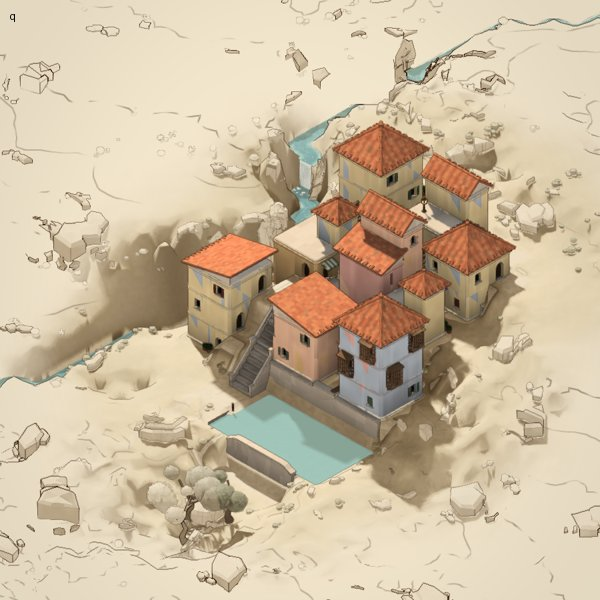
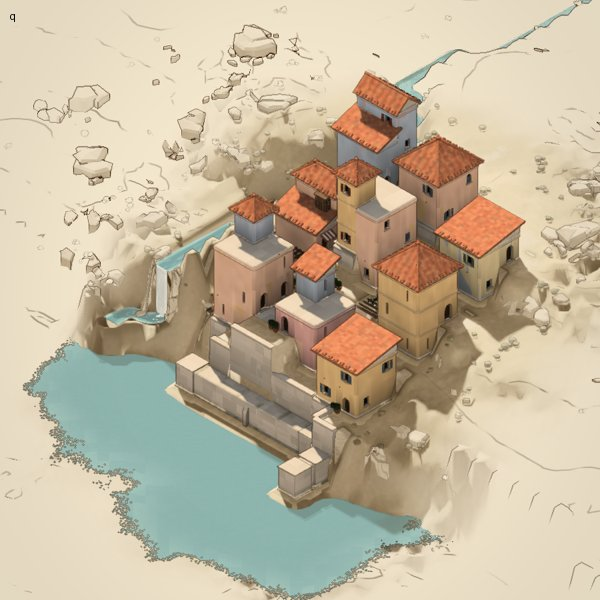
lab: labyrinth, a coast
A land seed below nought is a coast: the sea across the front at level
nought (a seabed under water, the shore where the hill goes under), a cliff
out of it, shelves behind, the stream falling into the sea. Stone built in
the sea stands on its own ground; the sea breaks up into the page where the
drawing's reach runs out. Story 22 moves onto one: a village up the
shelves with a mole along the cliff's foot.

Claude-Session: https://claude.ai/code/session_01D2Nx3PayKJtFYoab5A57H3

diff --git a/cells/lab/client/labyrinth/land.ts b/cells/lab/client/labyrinth/land.ts
@@ -4,6 +4,11 @@
  * shelves; a ravine runs down it with a stream in its bed; a rocky outcrop stands in the way of the obvious line; and
  * there's a shelf flat enough for a court.
  *
+ * A **coast** (a land seed below nought: the coast made from the seed's size) is the same land met by the sea: across
+ * its front, the sea at level nought (a seabed under water, its shore where the hill goes under), and out of it a cliff,
+ * two levels at once, then the shelves rising on to the back; the court's shelf and the outcrop kept up off the water,
+ * the stream falling out of its ravine into the sea.
+ *
  * It's held two ways that never disagree:
  * - **by column** (`g`): the level the ground is at in each cell. What's built is in whole levels, so this is what
  *   stands, walks and is struck: earth fills each column below it (`World.earth`), and its top is a floor;
@@ -35,6 +40,8 @@ export interface Land {
   rock: [number, number];
   /** the shelf kept flat for a court (its middle) */
   shelf: [number, number];
+  /** a coast's sea: its cells (`j * 1000 + i`), level nought, under water; empty inland */
+  sea: Set<number>;
 }
 
 const DW = DOMAIN.i1 - DOMAIN.i0 + 1;
@@ -51,7 +58,8 @@ export function noise2(seed: number, x: number, y: number): number {
 }
 
 /** a landscape for a seed */
-export function makeLand(seed: number, bay = 1): Land {
+export function makeLand(landSeed: number, bay = 1): Land {
+  const coast = landSeed < 0, seed = Math.abs(landSeed);
   const R = (n: number) => hash(seed, n) / 4294967296, L = landBox(bay), W = L.i1 - L.i0 + 1, H = L.j1 - L.j0 + 1;
   /** a square's place in the first square's columns */
   const at = (i: number, j: number) => (j - L.j0) * W + (i - L.i0);
@@ -70,12 +78,18 @@ export function makeLand(seed: number, bay = 1): Land {
   // (the ravine's line down the rise: wandering a little either side of a line a third or two thirds across)
   const side = R(2) < 0.5 ? 0.36 : 0.64, phase = R(3) * 6.28, ravine = (v: number) => side + 0.09 * Math.sin(v * 5.2 + phase) + 0.05 * Math.sin(v * 11 + phase * 2);
   // (the outcrop: on the far side of the ravine from the court's shelf, partway up)
-  const rockU = side < 0.5 ? 0.66 + 0.12 * R(4) : 0.34 - 0.12 * R(4), rockV = 0.4 + 0.25 * R(5);
-  const shelfU = side < 0.5 ? 0.14 + 0.06 * R(6) : 0.86 - 0.06 * R(6), shelfV = 0.32 + 0.3 * R(7);
+  const rockU = side < 0.5 ? 0.66 + 0.12 * R(4) : 0.34 - 0.12 * R(4), rockV = coast ? 0.55 + 0.2 * R(5) : 0.4 + 0.25 * R(5);
+  const shelfU = side < 0.5 ? 0.14 + 0.06 * R(6) : 0.86 - 0.06 * R(6), shelfV = coast ? 0.55 + 0.2 * R(7) : 0.32 + 0.3 * R(7);
+  // (a coast's shore: across the front a little under a third of the way back, wandering, drawn in a bay toward the
+  // middle, where a harbour would be)
+  const sPhase = R(8) * 6.28, bayU = 0.45 + 0.2 * R(9);
+  const shore = (u: number) => 0.27 + 0.03 * Math.sin(u * 7 + sPhase) + 0.02 * Math.sin(u * 15 + sPhase * 2) + 0.07 * Math.exp(-(((u - bayU) / 0.16) ** 2));
+  const atSea = (u: number, v: number) => coast && v < shore(u);
   const g = new Int8Array(W * H);
   const height = (u: number, v: number) => {
-    // (the rise: gentle at the front, steeper toward the back, so the levels come as shelves)
-    let h = PEAK * 0.92 * smooth(0.04, 1.02, 0.78 * v + 0.22 * Math.abs(u - (1 - side)) * 0.6) + 0.35;
+    // (the rise: gentle at the front, steeper toward the back, so the levels come as shelves; on a coast, out of the
+    // sea two levels at once, a cliff, then the shelves on up)
+    let h = coast ? 2.3 + (PEAK - 2.1) * smooth(shore(u), 1.02, v) : PEAK * 0.92 * smooth(0.04, 1.02, 0.78 * v + 0.22 * Math.abs(u - (1 - side)) * 0.6) + 0.35;
     h += (noise2(seed + 11, u * 4.2, v * 4.2) - 0.5) * 1.1 + (noise2(seed + 12, u * 9, v * 9) - 0.5) * 0.4;
     // (the shelf kept flat for a court)
     const ds = Math.hypot((u - shelfU) * 1.1, v - shelfV);
@@ -86,18 +100,22 @@ export function makeLand(seed: number, bay = 1): Land {
     h -= 1.5 * smooth(0.1, 0.02, Math.abs(u - ravine(v))) * smooth(0, 0.15, v + 0.05);
     return h;
   };
+  const sea = new Set<number>();
   for (let j = L.j0; j <= L.j1; j++) for (let i = L.i0; i <= L.i1; i++) {
     const [u, v] = uv(i, j);
-    g[at(i, j)] = Math.max(0, Math.min(PEAK, Math.round(height(u, v))));
+    if (atSea(u, v)) { g[at(i, j)] = 0; sea.add(j * 1000 + i); continue; }
+    g[at(i, j)] = Math.max(coast ? 1 : 0, Math.min(PEAK, Math.round(height(u, v))));
   }
   // (a clean shelf: a court's floor and the walls round it, all at one level: two cells each way)
   const [si, sj] = cellOf(shelfU, shelfV), level = g[at(si, sj)], S2 = 2 * bay + bay - 1;
-  for (let j = sj - S2; j <= sj + S2; j++) for (let i = si - S2; i <= si + S2; i++) if (inFirst(i, j)) g[at(i, j)] = level;
+  for (let j = sj - S2; j <= sj + S2; j++) for (let i = si - S2; i <= si + S2; i++) if (inFirst(i, j) && !sea.has(j * 1000 + i)) g[at(i, j)] = level;
   // (the stream: down the ravine's bed, a cell at a time, never climbing, from the top edge to the bottom)
   const stream: Array<[number, number]> = [];
   const steps = 60 * bay;
   for (let s = 0; s <= steps; s++) {
     const v = 1 - s / steps, c = cellOf(ravine(v), v), last = stream[stream.length - 1];
+    // (on a coast it ends where it meets the sea)
+    if (sea.has(c[1] * 1000 + c[0])) break;
     if (last && last[0] === c[0] && last[1] === c[1]) continue;
     if (last && Math.abs(last[0] - c[0]) + Math.abs(last[1] - c[1]) > 1) stream.push([c[0], last[1]]);
     stream.push(c);
@@ -110,13 +128,13 @@ export function makeLand(seed: number, bay = 1): Land {
   }
   for (const [i, j] of stream) for (const [a, b] of [[1, 0], [-1, 0], [0, 1], [0, -1]]) {
     const x = i + a, z = j + b;
-    if (inFirst(x, z) && !stream.some((c) => c[0] === x && c[1] === z) && g[at(x, z)] <= g[at(i, j)]) g[at(x, z)] = Math.min(PEAK, g[at(i, j)] + 1);
+    if (inFirst(x, z) && !sea.has(z * 1000 + x) && !stream.some((c) => c[0] === x && c[1] === z) && g[at(x, z)] <= g[at(i, j)]) g[at(x, z)] = Math.min(PEAK, g[at(i, j)] + 1);
   }
   // (and the shelf kept flat, whatever the stream's banks did to it)
   const water = new Set(stream.map(([i, j]) => j * 1000 + i));
   let flat = level;
   for (const [i, j] of stream) if (Math.abs(i - si) <= 3 * bay && Math.abs(j - sj) <= 3 * bay) flat = Math.max(flat, g[at(i, j)]);
-  for (let j = sj - S2; j <= sj + S2; j++) for (let i = si - S2; i <= si + S2; i++) if (inFirst(i, j) && !water.has(j * 1000 + i)) g[at(i, j)] = flat;
+  for (let j = sj - S2; j <= sj + S2; j++) for (let i = si - S2; i <= si + S2; i++) if (inFirst(i, j) && !water.has(j * 1000 + i) && !sea.has(j * 1000 + i)) g[at(i, j)] = flat;
   // ─── and on past it: the same rise, ravine and stream, carried on over the whole grid ───
   // (the first square exactly as it's composed; the rest from the same height, its stream run on up the ravine
   // (never lower than the water below it) and on down it (never higher than the water above), banks either side)
@@ -124,7 +142,8 @@ export function makeLand(seed: number, bay = 1): Land {
   for (let j = DOMAIN.j0; j <= DOMAIN.j1; j++) for (let i = DOMAIN.i0; i <= DOMAIN.i1; i++) {
     if (inFirst(i, j)) { D[atD(i, j)] = g[at(i, j)]; continue; }
     const [u, v] = uv(i, j);
-    D[atD(i, j)] = Math.max(0, Math.min(PEAK, Math.round(height(u, v))));
+    if (atSea(u, v)) { D[atD(i, j)] = 0; sea.add(j * 1000 + i); continue; }
+    D[atD(i, j)] = Math.max(coast ? 1 : 0, Math.min(PEAK, Math.round(height(u, v))));
   }
   const cellAny = (u: number, v: number): [number, number] => {
     const [a, b] = turn === 0 ? [u, v] : turn === 1 ? [v, 1 - u] : turn === 2 ? [1 - u, 1 - v] : [1 - v, u];
@@ -147,7 +166,7 @@ export function makeLand(seed: number, bay = 1): Land {
     }
     return out;
   };
-  const up = runOn(stream[0], 1 + 1 / steps, 1 / steps), down = runOn(stream[stream.length - 1], -1 / steps, -1 / steps);
+  const up = runOn(stream[0], 1 + 1 / steps, 1 / steps), down = coast ? [] : runOn(stream[stream.length - 1], -1 / steps, -1 / steps);
   let hi = D[atD(...stream[0])];
   for (const [i, j] of up) { hi = Math.max(hi, D[atD(i, j)]); D[atD(i, j)] = hi; }
   let lo = D[atD(...stream[stream.length - 1])];
@@ -156,9 +175,9 @@ export function makeLand(seed: number, bay = 1): Land {
   for (const [i, j] of more) water.add(j * 1000 + i);
   for (const [i, j] of more) for (const [a, b] of [[1, 0], [-1, 0], [0, 1], [0, -1]]) {
     const x = i + a, z = j + b;
-    if (onLand(x, z) && !inFirst(x, z) && !water.has(z * 1000 + x) && D[atD(x, z)] <= D[atD(i, j)]) D[atD(x, z)] = Math.min(PEAK, D[atD(i, j)] + 1);
+    if (onLand(x, z) && !inFirst(x, z) && !water.has(z * 1000 + x) && !sea.has(z * 1000 + x) && D[atD(x, z)] <= D[atD(i, j)]) D[atD(x, z)] = Math.min(PEAK, D[atD(i, j)] + 1);
   }
-  return { seed, bay, box: L, g: D, stream: [...up.reverse(), ...stream, ...down], water, rock: cellOf(rockU, rockV), shelf: [si, sj] };
+  return { seed, bay, box: L, g: D, stream: [...up.reverse(), ...stream, ...down], water, rock: cellOf(rockU, rockV), shelf: [si, sj], sea };
 }
 
 /** the ground's level in a column (0 off the land) */

diff --git a/cells/lab/client/labyrinth/demo.ts b/cells/lab/client/labyrinth/demo.ts
@@ -469,34 +469,31 @@ function atWork(): World {
 }
 
 /**
- * storyboard 22: a village climbing a hillside over a harbour (the cliff village board, devtools/cliff-board.mjs). On a
- * land that rises from low ground at the front in shelves to the back, houses two cells square, two or three storeys,
- * in rows up the shelves with a cell between them, each standing on the ground at its own columns, so each row shows
- * over the one below; a way climbing between them from the low ground to the top row; a pond drawn round on the low
- * ground in front for the harbour, and a way down to its edge (the rules make a landing stage, steps into the water and
- * a post to tie up to). Their washes, roofs, doors and windows are the rules' own. The land's edge thins out into lines
- * on the page as it always does.
+ * storyboard 22: a village on a cliff over a harbour (the cliff village board, devtools/cliff-board.mjs). On a coast
+ * (land −11: the sea across the front, a cliff out of it, shelves rising behind), houses two cells square, two or three
+ * storeys, in rows up the shelves with a cell between them, each standing on the ground at its own columns, so each row
+ * shows over the one below; a way climbing between them from the clifftop to the top row; and a mole of stone built out
+ * along the foot of the cliff in the sea, a level up off the water, with the way brought down onto it. Their washes,
+ * roofs, doors and windows are the rules' own. The sea and the land thin out into lines on the page round it.
  */
 function village(): World {
-  const w = new World(51, 7), t = -100;
+  const w = new World(51, -11), t = -100;
   const g = (i: number, j: number): Pick => { const k = w.ground(i, j); return { face: 'ground', hit: [k - 1, i, j], to: [k, i, j] }; };
   const raise = (i: number, j: number, n: number) => w.apply({ add: Array.from({ length: n }, (_, k) => [w.ground(i, j) + k, i, j, t] as [number, number, number, number]) }, t);
   const house = (i0: number, j0: number, n: number) => { for (const i of [i0, i0 + 1]) for (const j of [j0, j0 + 1]) raise(i, j, n); };
-  // (the rows, from the top of the shelves down to the front: [i, j, storeys]; the way up runs between them at i = 9)
-  for (const [i, j, n] of [[7, 0, 3], [10, 0, 2], [12, 1, 2], [7, 3, 2], [10, 3, 3], [12, 4, 2], [6, 6, 3], [10, 6, 2], [13, 6, 3]] as Array<[number, number, number]>) house(i, j, n);
-  // (a way up between them, from the low ground to the top row)
+  // (the rows, from the top of the shelves down to the clifftop: [i, j, storeys]; the way up runs between them at i = 8)
+  for (const [i, j, n] of [[6, 0, 3], [9, 0, 2], [12, 1, 2], [6, 3, 2], [9, 3, 3], [12, 4, 3], [6, 6, 3], [9, 6, 2], [12, 7, 2]] as Array<[number, number, number]>) house(i, j, n);
   const up: Array<[number, number]> = [];
-  for (let j = 9; j >= 1; j--) up.push([9, j]);
-  const way = trace(w, g(9, 9), up, g(9, 1), () => t, t, [], 'way');
+  for (let j = 8; j >= 0; j--) up.push([8, j]);
+  const way = trace(w, g(8, 8), up, g(8, 0), () => t, t, [], 'way');
   if (way && !('refused' in way)) w.apply({ ...way, alts: undefined }, t);
-  // (the harbour: a pond drawn round on the level ground in front, its ring walked cell by cell back to its start, beside
-  // the way's foot, so the way comes down to the water's edge)
-  const ring: Array<[number, number]> = [];
-  for (let i = 10; i <= 14; i++) ring.push([i, 8]);
-  for (let j = 9; j <= 10; j++) ring.push([14, j]);
-  for (let i = 13; i >= 10; i--) ring.push([i, 10]);
-  ring.push([10, 9]);
-  const pond = run(w, 'pool', g(10, 8), ring, 0, t);
-  if (pond) w.apply(pond, t);
+  // (the mole: stone a level up off the water, along the cliff's foot and out into the sea)
+  const mole: Array<[number, number, number]> = [];
+  for (let i = 6; i <= 13; i++) if (w.land?.sea.has(9000 + i)) mole.push([0, i, 9]);
+  for (let j = 10; j <= 11; j++) mole.push([0, 13, j]);
+  w.apply({ add: mole.map(([k, i, j]) => [k, i, j, t] as [number, number, number, number]) }, t);
+  // (the way down to it)
+  const down = trace(w, g(8, 8), [[8, 8], [8, 9]], topOf(w, 8, 9), () => t, t, [], 'way');
+  if (down && !('refused' in down)) w.apply({ ...down, alts: undefined }, t);
   return w;
 }

diff --git a/cells/lab/client/labyrinth/mesh.ts b/cells/lab/client/labyrinth/mesh.ts
@@ -1285,6 +1285,20 @@ export function buildMesh(w: World, plain = false, selected: Set<number> = new S
     }
     cur.tone = 0.5;
     perf.end(); perf.begin('mesh.build.ground.water');
+    // (a coast's sea: its surface a little under level nought over every sea cell drawn, flat, the seabed under it and
+    // the shore where the hill goes under; it runs on as far as the land's drawn, and past that the page takes it, as it
+    // takes the land)
+    if (land.sea.size) {
+      // (its how, 10, tells the shader it's the sea: it breaks up into the page, raggedly, where the drawing's reach runs
+      // out, as the land's own marks thin; one depth, its shallows where the hill comes up under it)
+      const SEA = -0.12, wet = (i: number, j: number) => land.sea.has(j * 1000 + i);
+      for (let j = z0; j < z1; j++) for (let i = x0; i < x1; i++) {
+        if (!wet(i, j) && !(wet(i + 1, j) || wet(i - 1, j) || wet(i, j + 1) || wet(i, j - 1))) continue;
+        cur = { born: -1e3, pivot: 0, how: 10, tone: 0.7, dress: 0, sel: false };
+        const cx = X(i), cz = Z(j);
+        quad([cx, SEA, cz], [cx + 1, SEA, cz], [cx + 1, SEA, cz + 1], [cx, SEA, cz + 1], [0, 1, 0], 1, MAT.water);
+      }
+    }
     // (the stream: its water along its course (terrain.ts), a little over its bed: a ribbon down the channel, which way it
     // runs at each stretch (its angle, in the vertex's how, past 1, so the shader moves its ripples that way), shallow at
     // its banks and deep down its middle; where its bed steps, a fall, foaming where it lands)

diff --git a/cells/lab/client/labyrinth/terrain.ts b/cells/lab/client/labyrinth/terrain.ts
@@ -35,7 +35,12 @@ function lev(w: World, C: Cells, i: number, j: number) {
   const k = ck(i, j);
   let v = C.lev.get(k);
   // (a pond let into the ground: its floor a fifth of a level down, under its water, so the water and its kerb show)
-  if (v === undefined) { v = levelAt(w, Math.max(LO, Math.min(HI, i)), Math.max(LO, Math.min(HI, j))) - (w.pools.has(key(0, i, j)) ? 0.2 : 0); C.lev.set(k, v); }
+  // (and a coast's sea: its bed well down under the water, unless something's built there (a quay stands on its own
+  // ground))
+  if (v === undefined) {
+    const sea = !!w.land?.sea.has(j * 1000 + i) && !w.stone(0, i, j) && !w.pier(0, i, j) && w.stair(0, i, j) < 0;
+    v = levelAt(w, Math.max(LO, Math.min(HI, i)), Math.max(LO, Math.min(HI, j))) - (w.pools.has(key(0, i, j)) ? 0.2 : 0) - (sea ? 0.7 : 0); C.lev.set(k, v);
+  }
   return v;
 }
 /** whether a cell's a bench: flat at its level, because something's built there or it's the stream's */

diff --git a/cells/lab/client/labyrinth/model.ts b/cells/lab/client/labyrinth/model.ts
@@ -1188,7 +1188,7 @@ export class World {
   /** a cell on the slab */
   onSlab(i: number, j: number) { const e = this.extent(); return i >= e.i0 && i <= e.i1 && j >= e.j0 && j <= e.j1; }
   /** a pool at a cell of the ground */
-  pool(i: number, j: number) { return this.pools.has(key(0, i, j)) || (!!this.land && this.land.water.has(j * 1000 + i)) || this.decor.some((d) => d.kind === 'pool' && d.i === i && d.j === j); }
+  pool(i: number, j: number) { return this.pools.has(key(0, i, j)) || (!!this.land && (this.land.water.has(j * 1000 + i) || this.land.sea.has(j * 1000 + i))) || this.decor.some((d) => d.kind === 'pool' && d.i === i && d.j === j); }
 
   /** the operations, as text (to keep, and to make again: when they were laid isn't kept) */
   /** what's been done, written down (on the land, with the land's seed) */

diff --git a/cells/lab/client/labyrinth/render.ts b/cells/lab/client/labyrinth/render.ts
@@ -327,6 +327,12 @@ void main() {
     gT *= 1. - uToward; gTL *= 1. - uToward;
   }
   gDetail = smoothstep(.5, .85, gT);
+  // (the sea (its how, 10): broken up into the page where the drawing's reach runs low, ragged and fine, as a dry brush
+  // leaves a wash, so it never runs on as a sheet to the drawing's edge)
+  if (mat == 2 && vU > 9.5 && vU < 10.5 && onPaper && !sel) {
+    float grain = fbm(vec3(vPos.xz * 1.3, 11.)) * .7 + hash(vec3(floor(vPos.xz * 18.), 4.)) * .3;
+    if (grain > gT * 1.5 - .1) discard;
+  }
   // (a crown cut through more as it's drawn, so its limbs show and it reads as drawn canopy)
   if (vMat < 511.5 && leafCut(vPos, vMat, leafEdge(n) + .32 * (1. - smoothstep(.1, .7, gT)))) discard;
   if (!fur && leftOut(vPos, vU)) discard;

diff --git a/cells/lab/static/labyrinth.md b/cells/lab/static/labyrinth.md
@@ -287,18 +287,29 @@ It reckons as a town. `node devtools/labyrinth-props-look.mjs` draws the sheet b
 
 ![what the uses leave outside](labyrinth/look-props.jpg)
 
-**Story 22**, a village climbing a hillside over a harbour (`?story=22`), is the cliff village board's (a village stacked
-on a cliff over a harbour; `node devtools/cliff-board.mjs labyrinth` draws it beside the target,
-`devtools/targets/cliff-village.jpg`). On a middle-sea land rising from level ground at the front in shelves to the
-back:
+**A coast.** A land seed below nought is the coast made from that seed's size (`?land=-11`). It's the same land met by
+the sea across its front:
+- the sea at level nought: its bed well down under the water, so the shore lies wherever the hill goes under, and the
+  rules read it as water (nothing's planted in it, a fall into it lands in water);
+- out of it a cliff, two levels at once, then the shelves on up to the back; the court's shelf and the outcrop kept up off
+  the water;
+- the stream falling out of its ravine into the sea.
+
+Stone built in the sea stands on its own ground (a mole, a quay). The sea is drawn as far as the land is, and where the
+drawing's reach runs out it breaks up into the page, raggedly and finely, as a dry brush leaves a wash, so it never runs
+on as a sheet to the drawing's edge.
+
+**Story 22**, a village on a cliff over a harbour (`?story=22`), is the cliff village board's (`node
+devtools/cliff-board.mjs labyrinth` draws it beside the target, `devtools/targets/cliff-village.jpg`). On a middle-sea
+coast (land −11):
 - houses two cells square, two or three storeys, in rows up the shelves with a cell between them, each standing on the
   ground at its own columns, so each row shows over the one below, each washed in its own colour;
-- a way climbing between them from the level ground to the top row;
-- a pond drawn round on the level ground in front, for the harbour, beside the way's foot.
+- a way climbing between them from the clifftop to the top row;
+- a mole of stone along the foot of the cliff in the sea, a level up off the water, the way brought down onto it.
 
-On the land a pond is now let into the ground: its bench sits a fifth of a level down, under its water, so the water and
-its kerb show (before, the hillside lay over it). Unlike Blocks, the village isn't cut out as a piece: the land round it
-thins out into lines on the page, as everything here does.
+A pond on the land is let into the ground too: its bench sits a fifth of a level down, under its water, so the water
+and its kerb show (before, the hillside lay over it). Unlike Blocks, the village isn't cut out as a piece: the land and
+the sea round it thin out into lines on the page.
 
 ## Water
 
